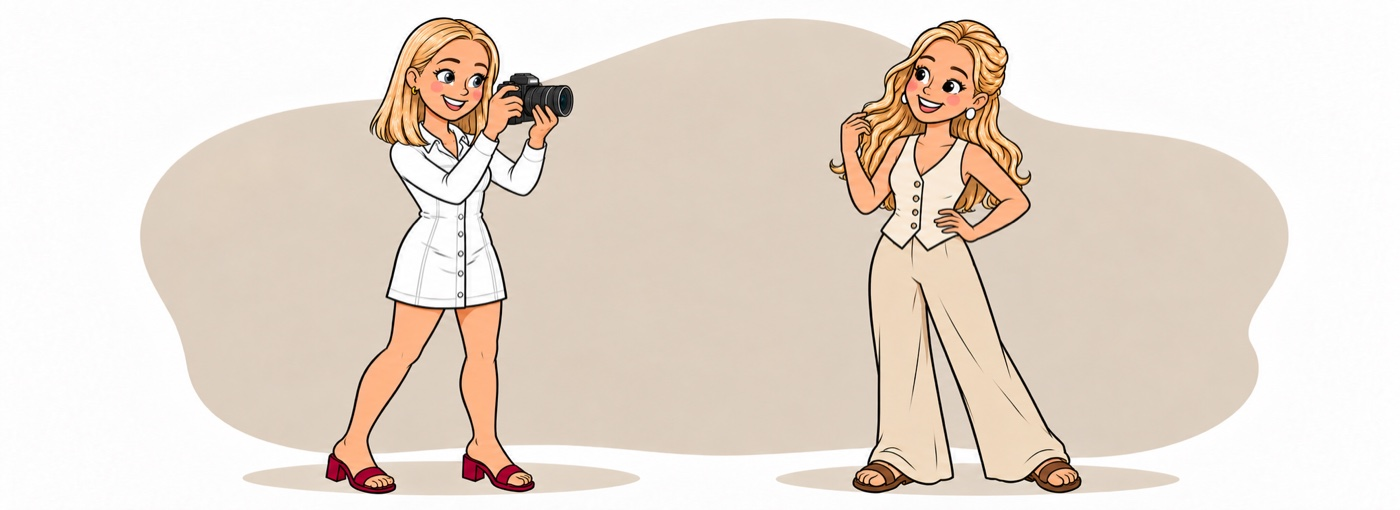
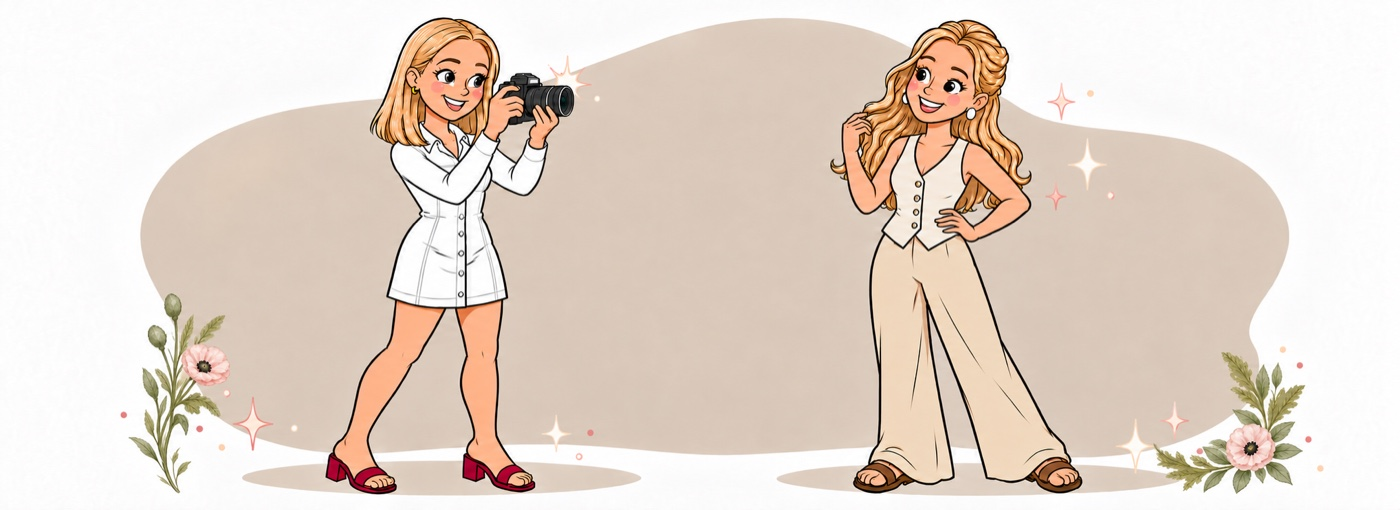
POC - Switch the couple's names to Imperial Script and update the Galleri illustration

diff --git a/src/index.css b/src/index.css
@@ -13,7 +13,7 @@
   --text: #414B40;
   --text-muted: #5A6153;
   --font-body: 'Jost', -apple-system, BlinkMacSystemFont, 'Segoe UI', sans-serif;
-  --font-names: 'Pinyon Script', cursive;
+  --font-names: 'Imperial Script', cursive;
   --nav-height: 68px;
   --radius: 14px;
 }
@@ -202,7 +202,7 @@ h1, h2, h3, h4 {
 
 .home-names {
   font-family: var(--font-names);
-  font-size: 3.2rem;
+  font-size: 3.6rem;
   font-weight: 400;
   color: var(--sage-dark);
   letter-spacing: normal;
@@ -214,7 +214,7 @@ h1, h2, h3, h4 {
 }
 
 .home-names .home-ampersand {
-  font-size: 1.75rem;
+  font-size: 1.9rem;
   line-height: 1.1;
   margin-top: 3px;
 }
@@ -1618,7 +1618,7 @@ h1, h2, h3, h4 {
 
 .auth-couple {
   font-family: var(--font-names);
-  font-size: 3.2rem;
+  font-size: 3.6rem;
   line-height: 1.04;
   color: var(--sage-dark);
   font-weight: 400;
@@ -1630,7 +1630,7 @@ h1, h2, h3, h4 {
 }
 
 .auth-couple .auth-ampersand {
-  font-size: 1.75rem;
+  font-size: 1.9rem;
   line-height: 1.1;
   margin-top: 3px;
 }

diff --git a/index.html b/index.html
@@ -12,7 +12,7 @@
     <link rel="apple-touch-icon" href="/favicon.svg" />
     <link rel="preconnect" href="https://fonts.googleapis.com" />
     <link rel="preconnect" href="https://fonts.gstatic.com" crossorigin />
-    <link href="https://fonts.googleapis.com/css2?family=Jost:wght@300;400;500;600;700&family=Pinyon+Script&display=swap" rel="stylesheet" />
+    <link href="https://fonts.googleapis.com/css2?family=Jost:wght@300;400;500;600;700&family=Imperial+Script&display=swap" rel="stylesheet" />
     <title>June 5th – Britta &amp; Johanna</title>
   </head>
   <body>

diff --git a/README.md b/README.md
@@ -20,9 +20,9 @@
 
 Startsidan använder designkitets två separata blomsterillustrationer från [src/assets/botanical](./src/assets/botanical). Av kitets övriga dekorationer används bara en liten salviakvist ovanför FAQ-rubriken. Därtill har fem sidor en tecknad illustration av Britta och Johanna (egna bilder utanför kitet, 1 nov 2026): på startsidan mellan nedräkningen och O.S.A. (`home-illustration.jpg`) och som banderoll direkt under sidrubriken på FAQ, Musik, Bildgalleri och Kontakt (`faq-`, `musik-`, `galleri-` och `kontakt-illustration.jpg`, klassen `page-illustration`). Bilderna har vit bakgrund i bildfilen och ritas med `mix-blend-mode: multiply`, så det vita försvinner mot sidans beige (rent vitt i teckningen, som skjortklänningen, får därmed sidans färg). De är nedskalade till 720 px (startsidan) respektive 1400 px bredd som JPEG för laddningstidens skull; originalen på 1254 respektive ~2000 px är inte incheckade.
 
-- Pinyon Script används endast för namnen på startsidan.
+- Imperial Script används endast för namnen på startsidan och inloggningssidan (bytt från designkitets Pinyon Script 1 nov 2026, Johannas val: samma kopparstickskaraktär men ett klassiskt &-tecken i stället för Pinyons svängda).
 - Jost används för övrig text i hela appen, enligt valt alternativ A. Det ersätter tills vidare Glacial Indifference; nya fontfiler/licens behövs om det senare ska bytas.
-- Typsnitten laddas från Google Fonts med `display=swap` och lokala reservtypsnitt. Jost och Pinyon Script distribueras med SIL Open Font License i Google Fonts.
+- Typsnitten laddas från Google Fonts med `display=swap` och lokala reservtypsnitt. Jost och Imperial Script distribueras med SIL Open Font License i Google Fonts.
 - Senaste designval: varm linnebeige bakgrund (`#F1E8DA`) och ljusa informationskort från förslag 1, mjuk salvia och rosa accenter. Nedräkningen följer förslag 3: tunna Jost-siffror mellan två linjer utan bakgrundsplatta. Större diagonala blomsterhörn omger de staplade namnen.
 - Befintliga navigeringsikoner, länkar, nedräkning och OSA-flöde behålls. Dekorationerna har tom alternativtext och kan inte blockera klick.
 - Kompletteringar från designkitets handoff (31 okt 2026): O.S.A. är startsidans enda framhävda knapp (mörkgrön, öppnar samma OSA-formulär som förut) och ligger direkt under nedräkningen; Musik och Bildgalleri har två lätta genvägskort under informationskorten (texterna är sidornas befintliga underrubriker); FAQ har lugnare dragspelskort (öppen fråga får ljusare pappersyta, pil-indikator och synlig tangentbordsfokus); navigeringen markerar aktiv flik med ett tunt streck i stället för skugga; alla övergångar stängs av vid `prefers-reduced-motion`. Kitets ljusare elfenbenspalett (`#F9F5F0`/`#365A40`) och nedräkningskortet infördes inte, eftersom linnebeige bakgrund och nedräkning utan platta var medvetna val (se ovan).

diff --git a/features.md b/features.md
@@ -6,7 +6,7 @@ Avbockat betyder implementerat i koden, inte verifierat i Firebase-produktion.
 
 - [ ] Fundera över vilken inloggningslösning som passar appen bäst.
 - [ ] Johanna vill ha en finare logga - hon återkommer med bild.
-- [ ] Ny font på Britta och Johanna - samma som på inbjudan. Pinyon Script används nu; överensstämmelse med inbjudan återstår att bekräfta.
+- [ ] Ny font på Britta och Johanna - samma som på inbjudan. Imperial Script används nu (bytt från Pinyon Script 1 nov 2026 för ett klassiskt &-tecken); överensstämmelse med inbjudan återstår att bekräfta.
 - [ ] "Vill du få uppdateringar" - ska det verkligen vara valfritt? Webbpush/PWA finns implementerat, men plattformsverifiering och beslut om upplägget återstår.
 - [ ] Adress: addera Rappesta kyrka; adress till ladan kommer senare.
 - [x] FAQ: vigseln hålls inomhus. Uppdaterat standardsvar; befintlig adminsparad FAQ måste uppdateras separat.
